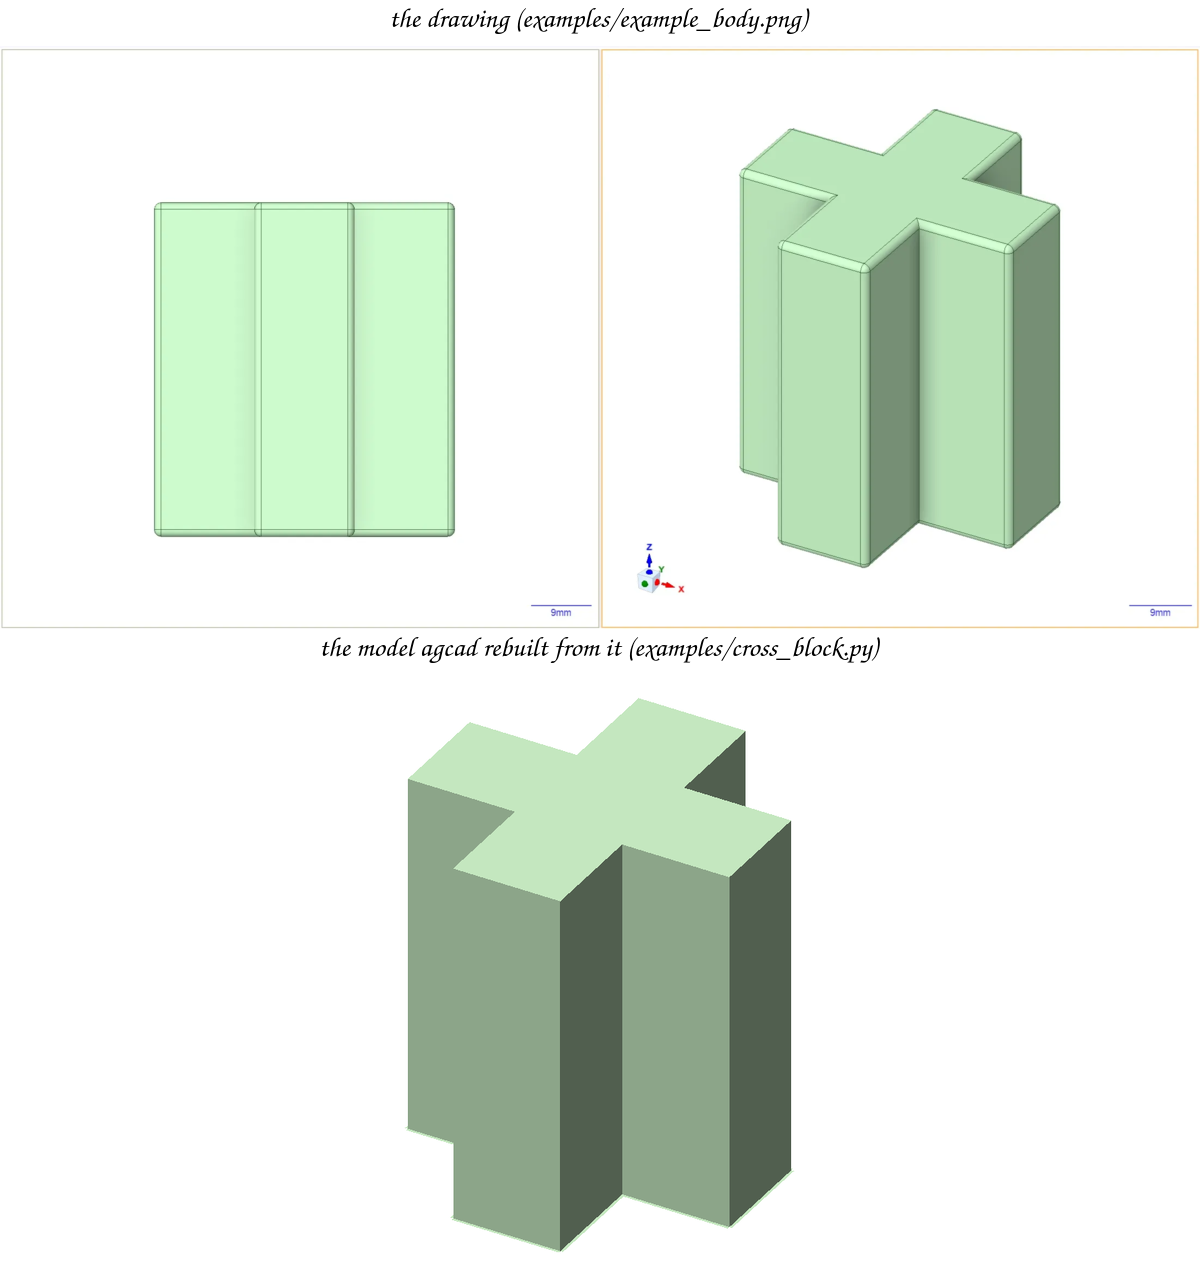
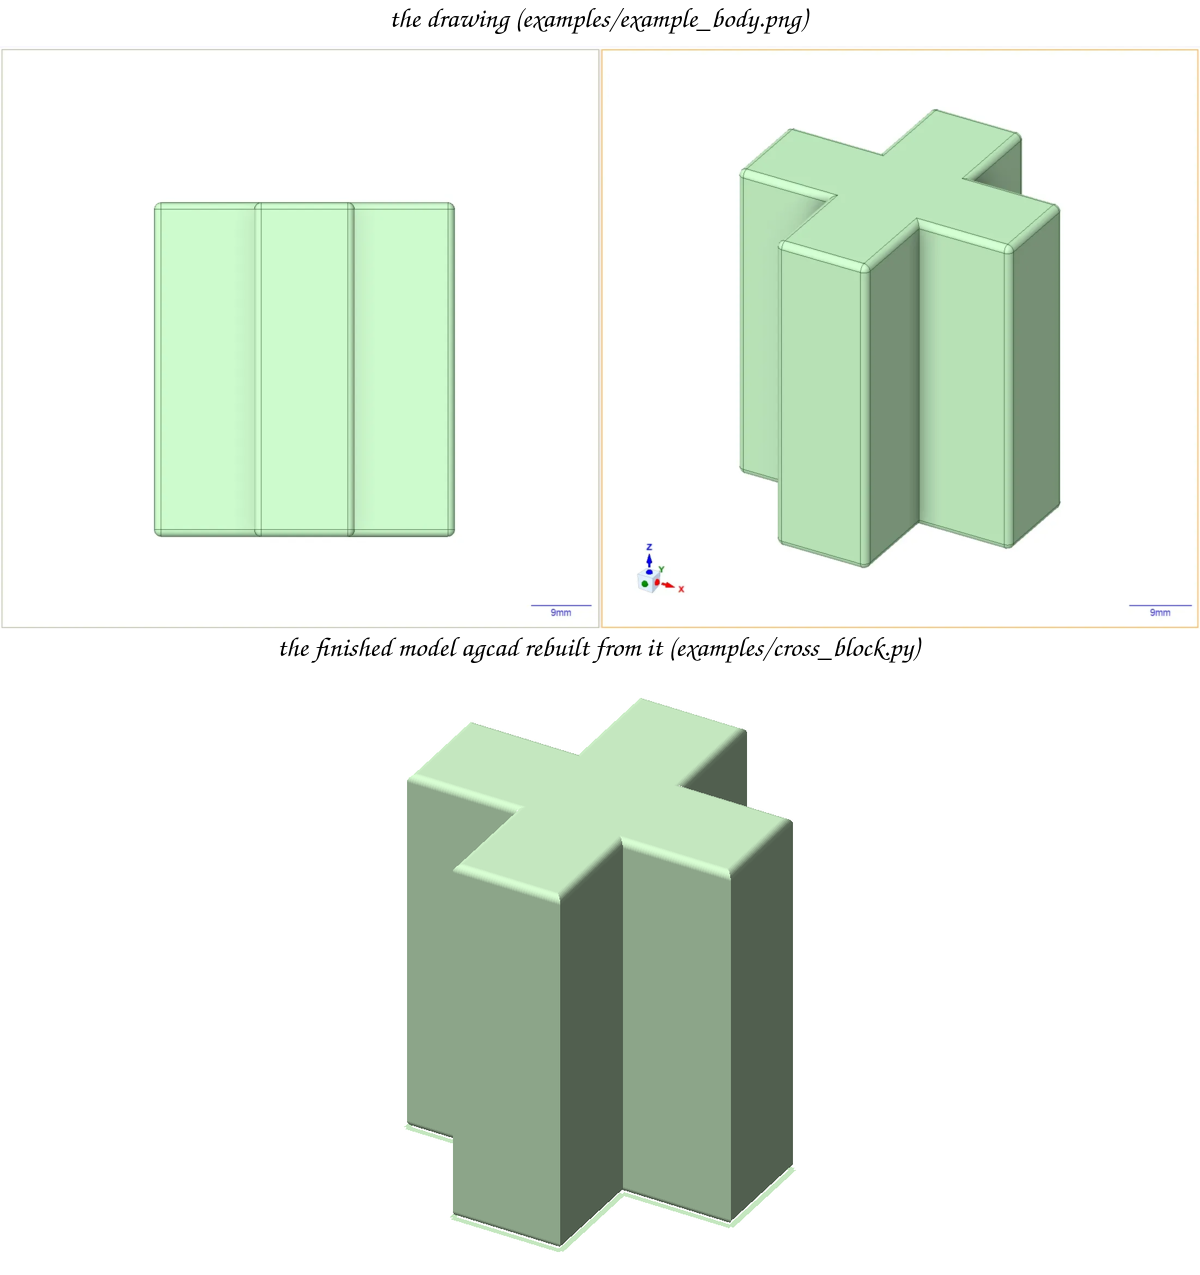
Showcase: compare the drawing with the finished part
compare.png stacked the reference drawing above the sharp baseline, which
does not look like the template. Now that the rounded rims reproduce the
drawing exactly, the montage shows the finished part instead: the drawing
on top, the rendered part below.

The sharp baseline is still produced (iso.png, front.png, the STL and the
.agcad) and still used for the silhouette/camera fit; only the comparison
image changed. The rounded render shares the same camera, so the layout is
unchanged.

The .agcad programs and parameters are untouched (only the embedded recipe
text changed). compare.png is byte-reproducible. 92 tests green.

diff --git a/examples/cross_block.py b/examples/cross_block.py
@@ -17,7 +17,8 @@ Writes the committed showcase into ``examples/cross_block/``: ``iso.png``,
 ``front.png``, ``cross_block.stl``, ``cross_block.agcad`` (the sharp
 baseline), plus ``rounded.png``, ``cross_block_rounded.stl`` and
 ``cross_block_rounded.agcad`` (the edge-treated part), and (when ImageMagick
-is installed) the stacked ``compare.png`` used in the README.
+is installed) the stacked ``compare.png`` used in the README — the drawing
+above the finished part.
 
 Usage: .venv/bin/python examples/cross_block.py
 """
@@ -49,8 +50,8 @@ REFERENCE = os.path.join("examples", "example_body.png")
 OUT_DIR = os.path.join("examples", "cross_block")
 
 
-def compose_showcase(reference: str, iso_png: str, out_path: str) -> None:
-    """Stack the drawing above the render, with labels.
+def compose_showcase(reference: str, model_png: str, out_path: str) -> None:
+    """Stack the drawing above the finished render, with labels.
 
     This is presentation only, so it is optional: without ImageMagick the
     model and the renders are still produced.
@@ -61,22 +62,22 @@ def compose_showcase(reference: str, iso_png: str, out_path: str) -> None:
         return
     tmp = tempfile.mkdtemp(prefix="agcad_showcase_")
     ref = os.path.join(tmp, "ref.png")
-    iso = os.path.join(tmp, "iso.png")
+    model = os.path.join(tmp, "model.png")
     ref_l = os.path.join(tmp, "ref_l.png")
-    iso_l = os.path.join(tmp, "iso_l.png")
+    model_l = os.path.join(tmp, "model_l.png")
 
     def run(*args: str) -> None:
         subprocess.run([magick, *args], check=True)
 
     run(reference, "-resize", "1200x", ref)
     run(
-        iso_png, "-fuzz", "3%", "-trim", "+repage", "-bordercolor", "white",
+        model_png, "-fuzz", "3%", "-trim", "+repage", "-bordercolor", "white",
         "-border", "30", "-resize", "x600", "-background", "white",
-        "-gravity", "center", "-extent", "1200x600", iso,
+        "-gravity", "center", "-extent", "1200x600", model,
     )
     for src, dst, text in [
         (ref, ref_l, "the drawing (examples/example_body.png)"),
-        (iso, iso_l, "the model agcad rebuilt from it (examples/cross_block.py)"),
+        (model, model_l, "the finished model agcad rebuilt from it (examples/cross_block.py)"),
     ]:
         run(
             src, "-background", "white", "-gravity", "north", "-splice", "0x46",
@@ -85,7 +86,7 @@ def compose_showcase(reference: str, iso_png: str, out_path: str) -> None:
     # Strip metadata / timestamps: re-running must produce identical bytes,
     # so the committed showcase is reproducible and the tree stays clean.
     run(
-        ref_l, iso_l, "-background", "white", "-gravity", "center", "-append",
+        ref_l, model_l, "-background", "white", "-gravity", "center", "-append",
         "-strip", "-define", "png:exclude-chunks=date,time", out_path,
     )
     shutil.rmtree(tmp, ignore_errors=True)
@@ -170,8 +171,6 @@ def main() -> None:
     )
     print(f"rendered front -> {png['path']}")
 
-    compose_showcase(REFERENCE, iso_png, compare_png)
-
     # Persist the sharp baseline now, before the edge commands change the
     # program. The script above is the recipe; the file is the same model with
     # the knobs as they stand, and an embedded copy of the recipe as provenance.
@@ -201,6 +200,10 @@ def main() -> None:
         fov_deg=40.0, ortho=True, background=(1.0, 1.0, 1.0, 1.0), path=rounded_png,
     )
     print(f"rendered rounded -> {png['path']}")
+
+    # The comparison shows the finished part — the one that resembles the
+    # drawing — not the sharp baseline it was fitted on.
+    compose_showcase(REFERENCE, rounded_png, compare_png)
 
     exp = cad.export_stl(doc, rounded_stl)
     print(f"stl: {exp['path']} ({exp['tris']} tris, {exp['bytes']} bytes)")

diff --git a/README.md b/README.md
@@ -34,17 +34,18 @@ The agent is handed a picture — here `examples/example_body.png`, a front and
 a 3/4 view of a cross block — and writes `examples/cross_block.py`, which
 rebuilds the part as a parametric program:
 
-![the drawing and the model agcad rebuilt from it](examples/cross_block/compare.png)
+![the drawing and the finished model agcad rebuilt from it](examples/cross_block/compare.png)
 
 The dimensions are read off the drawing rather than guessed: its front panel
 is 553 × 614 px at the drawing's own 9 mm scale bar, so the body is
-45 × 45 mm in plan, 15 mm arms and 50 mm tall. The reproduction's camera was
-fitted by comparing silhouettes (0.99 IoU), and its front view matches the
-drawing's aspect to ~0.1% (0.898 vs 0.899). The baseline keeps sharp edges so
-the silhouette comparison stays unambiguous; the script then rounds it the
-way the drawing does — a 1 mm `fillet` on the top and bottom rims, driven by
-the `round_r` knob. The drawing's plan corners are sharp, so the twelve
-vertical edges are deliberately left alone:
+45 × 45 mm in plan, 15 mm arms and 50 mm tall. The camera was fitted on a
+sharp baseline so the silhouette comparison stays unambiguous (0.99 IoU), and
+that baseline's front view matches the drawing's aspect to ~0.1%
+(0.898 vs 0.899). The script then rounds the part the way the drawing does —
+a 1 mm `fillet` on the top and bottom rims, driven by the `round_r` knob. The
+drawing's plan corners are sharp, so the twelve vertical edges are
+deliberately left alone. The 3/4 view above is that finished part; here it is
+on its own:
 
 ![the cross block with its top and bottom rims rounded and sharp plan corners](examples/cross_block/rounded.png)
 
@@ -68,9 +69,9 @@ The loop this exercises, end to end:
    intact.
 
 The artifacts live in `examples/cross_block/`: `iso.png`, `front.png`,
-`compare.png`, `cross_block.stl`, `cross_block.agcad` (the sharp baseline),
-plus `rounded.png`, `cross_block_rounded.stl` and
-`cross_block_rounded.agcad` (the edge-treated part).
+`cross_block.stl` and `cross_block.agcad` (the sharp baseline), plus
+`rounded.png`, `cross_block_rounded.stl` and `cross_block_rounded.agcad`
+(the finished part), and `compare.png` (the drawing above that part).
 `.venv/bin/python examples/cross_block.py` regenerates them.
 
 ## Layout
